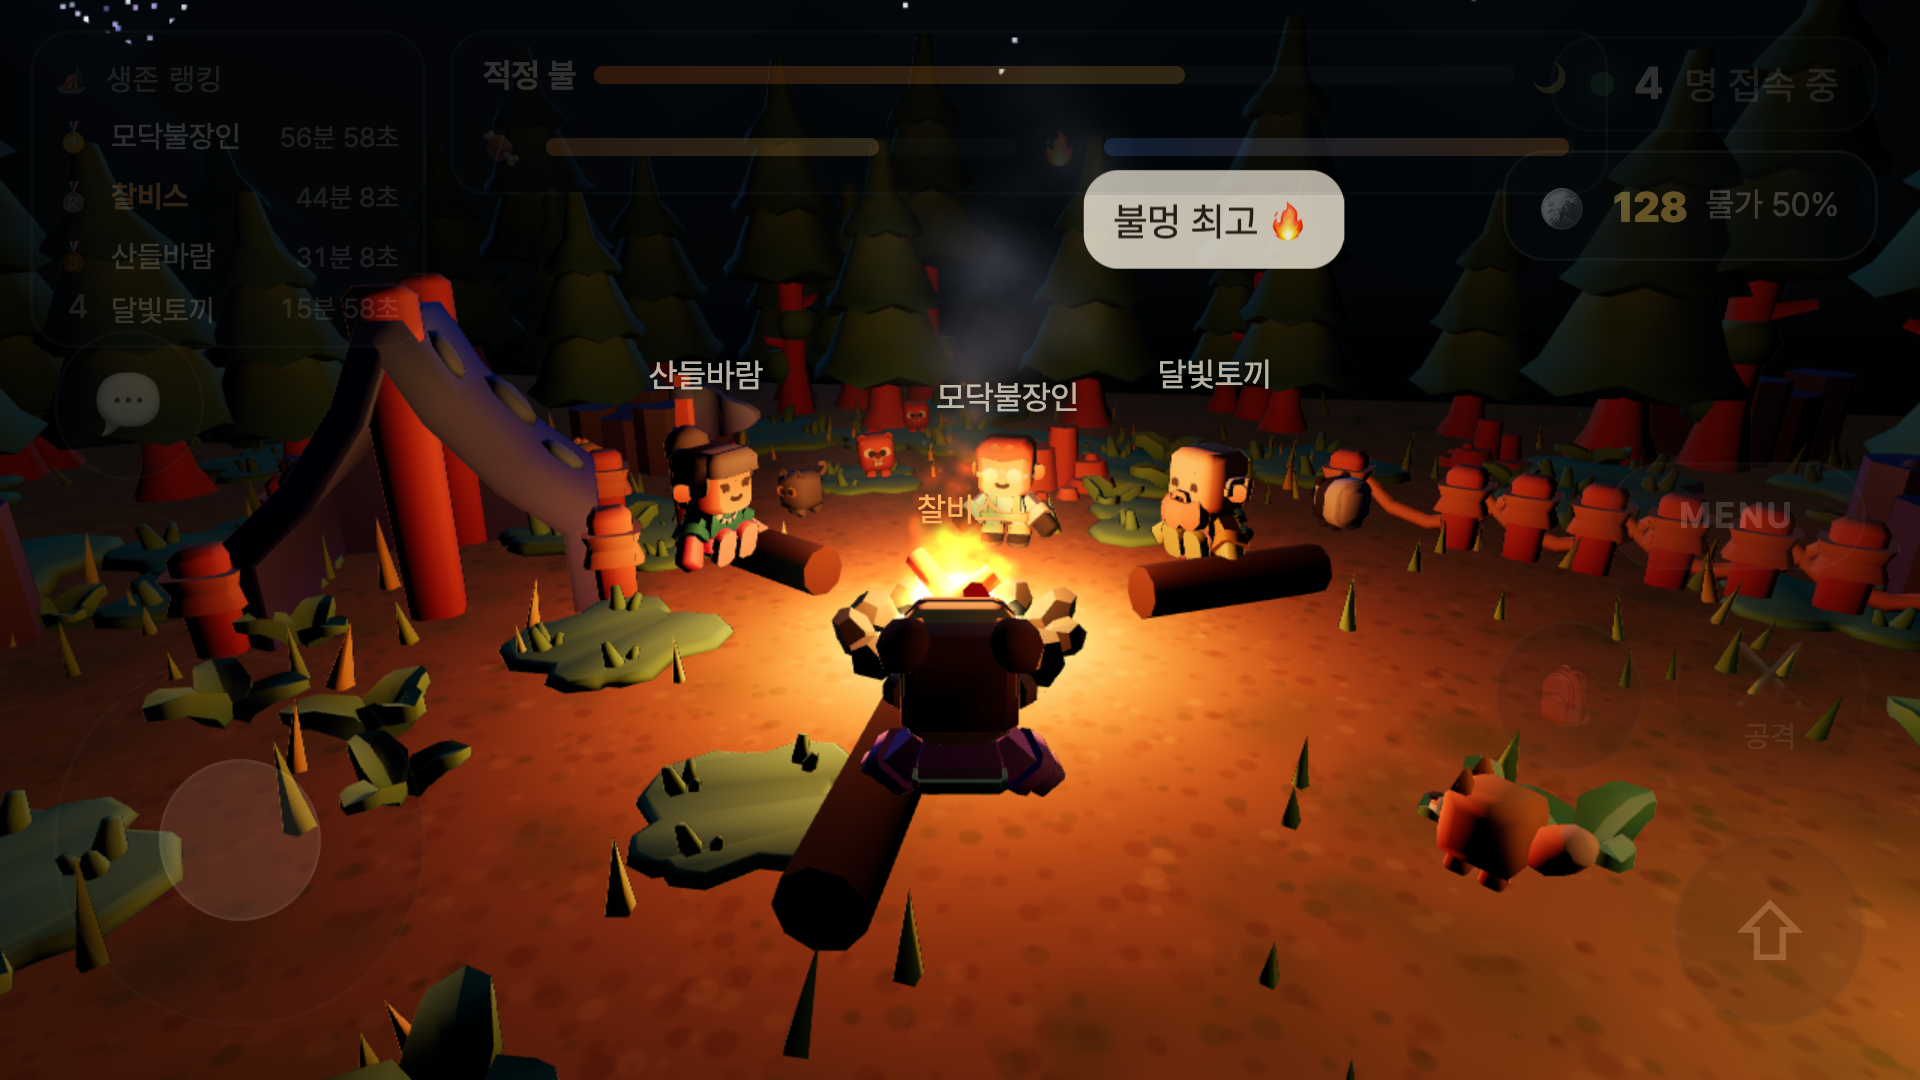
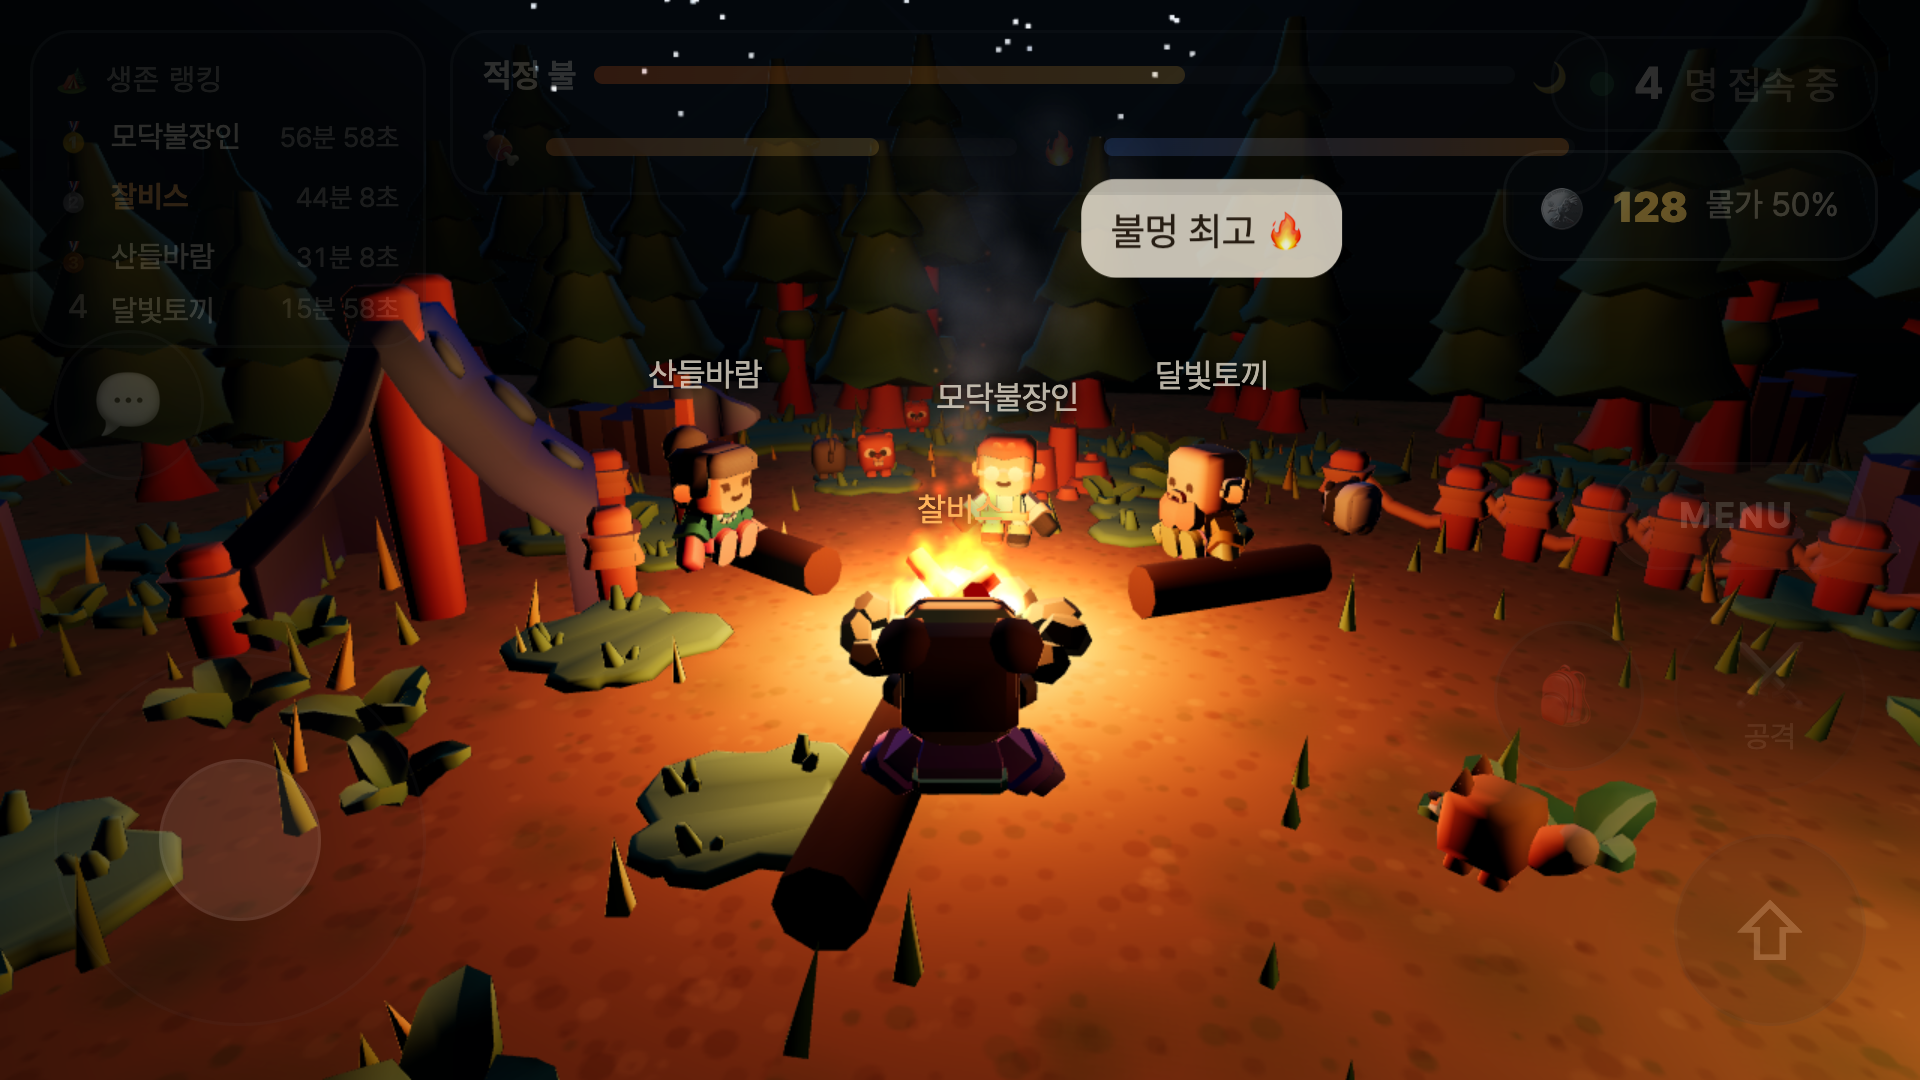
iPad 성능: 픽셀 총량 상한, 프레임 떨어지면 배율·풀 자동 감소, 셰이더 미리 컴파일

diff --git a/index.html b/index.html
@@ -450,7 +450,28 @@ const fireOut = () => state.fuel <= 0;
 /* ================= 렌더러·카메라 ================= */
 const canvas = $('#scene');
 const renderer = new THREE.WebGLRenderer({ canvas, antialias: true, powerPreference: 'high-performance' });
-renderer.setPixelRatio(Math.min(window.devicePixelRatio, 2));
+/* 화질 자동 조절: 그리는 픽셀 총량에 상한을 둬 큰 화면(iPad)에서 배율을 낮춘다. 프레임이 계속 떨어지면 한 단계씩 더 낮추고 풀도 줄인다 */
+const PIXEL_BUDGET = [2.5e6, 1.7e6, 1.1e6];
+let qualityLevel = 0, grassMesh = null;
+function applyPixelRatio() {
+  const ratio = Math.min(window.devicePixelRatio || 1, 2, Math.sqrt(PIXEL_BUDGET[qualityLevel] / (innerWidth * innerHeight)));
+  renderer.setPixelRatio(Math.max(0.75, ratio));
+}
+applyPixelRatio();
+let perfAcc = 0, perfN = 0, perfBad = 0, perfLastDrop = 0;
+function perfTick(dt) {
+  if ($('#gate') || state.time - surv.spawnAt < 8) return; // 대문·입장 직후 로딩 끊김은 재지 않음
+  perfAcc += dt; perfN++;
+  if (perfAcc < 1) return;
+  const avg = perfAcc / perfN; perfAcc = 0; perfN = 0;
+  perfBad = avg > 0.03 ? perfBad + 1 : 0; // 1초 평균 33fps 아래
+  if (perfBad >= 3 && qualityLevel < PIXEL_BUDGET.length - 1 && performance.now() - perfLastDrop > 6000) {
+    qualityLevel++; perfBad = 0; perfLastDrop = performance.now();
+    resize();
+    if (grassMesh) grassMesh.count = Math.round(1400 * (qualityLevel === 1 ? 0.6 : 0.3));
+    console.info('화질 단계 낮춤', qualityLevel, renderer.getPixelRatio().toFixed(2));
+  }
+}
 renderer.setSize(innerWidth, innerHeight);
 renderer.toneMapping = THREE.ACESFilmicToneMapping;
 renderer.toneMappingExposure = 1.15;
@@ -522,7 +543,7 @@ scene.add(ground);
   const geo = new THREE.ConeGeometry(0.05, 0.26, 4, 1, true);
   geo.translate(0, 0.13, 0);
   const gmat = new THREE.MeshStandardMaterial({ color: 0xffffff, roughness: 0.9, side: THREE.DoubleSide, vertexColors: false });
-  const grass = new THREE.InstancedMesh(geo, gmat, n);
+  const grass = new THREE.InstancedMesh(geo, gmat, n); grassMesh = grass;
   const d = new THREE.Object3D(), col = new THREE.Color();
   const rg = mulberry32(99);
   const tints = [0x7fb15a, 0x9ccc62, 0x6ea04f, 0xb6d47a, 0xd8c65a, 0x8bbf6a];
@@ -1843,8 +1864,10 @@ const shared = {
     return r.committed;
   }
 };
-buildForest().then(() => shared.applyPendingAnimals()).catch((e) => console.warn('숲 모델 읽기 실패, 기본 숲 유지', e));
-buildAnimals().catch((e) => console.warn('동물 모델 읽기 실패', e));
+const forestReady = buildForest().then(() => shared.applyPendingAnimals()).catch((e) => console.warn('숲 모델 읽기 실패, 기본 숲 유지', e));
+const animalsReady = buildAnimals().catch((e) => console.warn('동물 모델 읽기 실패', e));
+// 대문이 떠 있는 동안 모든 재질의 셰이더를 미리 컴파일해 입장 직후 끊김을 줄인다(Safari 는 첫 그리기 때 즉석 컴파일)
+Promise.allSettled([forestReady, animalsReady]).then(() => renderer.compileAsync(scene, camera).catch(() => {}));
 
 // 사람 캐릭터(Kenney Mini Forest 궁수 + Mini Characters 12명): 옷 색을 8가지 색조로 돌려 서로 구분
 const CHARS = 'assets/models/chars/';
@@ -2016,6 +2039,7 @@ class Character {
     m.rotation.y = 0; // Kenney 모델 정면은 +Z (머리·꼬리 좌표로 확인)
     m.traverse((o) => { o.userData.npc = this.isNpc; });
     this.model = m;
+    setTimeout(() => renderer.compileAsync(this.group, camera, scene).catch(() => {}), 0);
     this.capsule.visible = false;
     this.group.add(m);
     this.mixer = new THREE.AnimationMixer(m);
@@ -2903,6 +2927,7 @@ window.addEventListener('keydown', (e) => {
 function resize() {
   camera.aspect = innerWidth / innerHeight;
   camera.updateProjectionMatrix();
+  applyPixelRatio();
   renderer.setSize(innerWidth, innerHeight);
   const s = innerHeight / 2 * renderer.getPixelRatio();
   fire.setScale(s); sparks.setScale(s); smoke.setScale(s);
@@ -2982,6 +3007,7 @@ function frame() {
     };
   }
   const dt = Math.min(0.05, clock.getDelta());
+  perfTick(dt);
   state.time += dt;
 
   state.fuel = Math.max(0, state.fuel - dt * 100 / 420);
